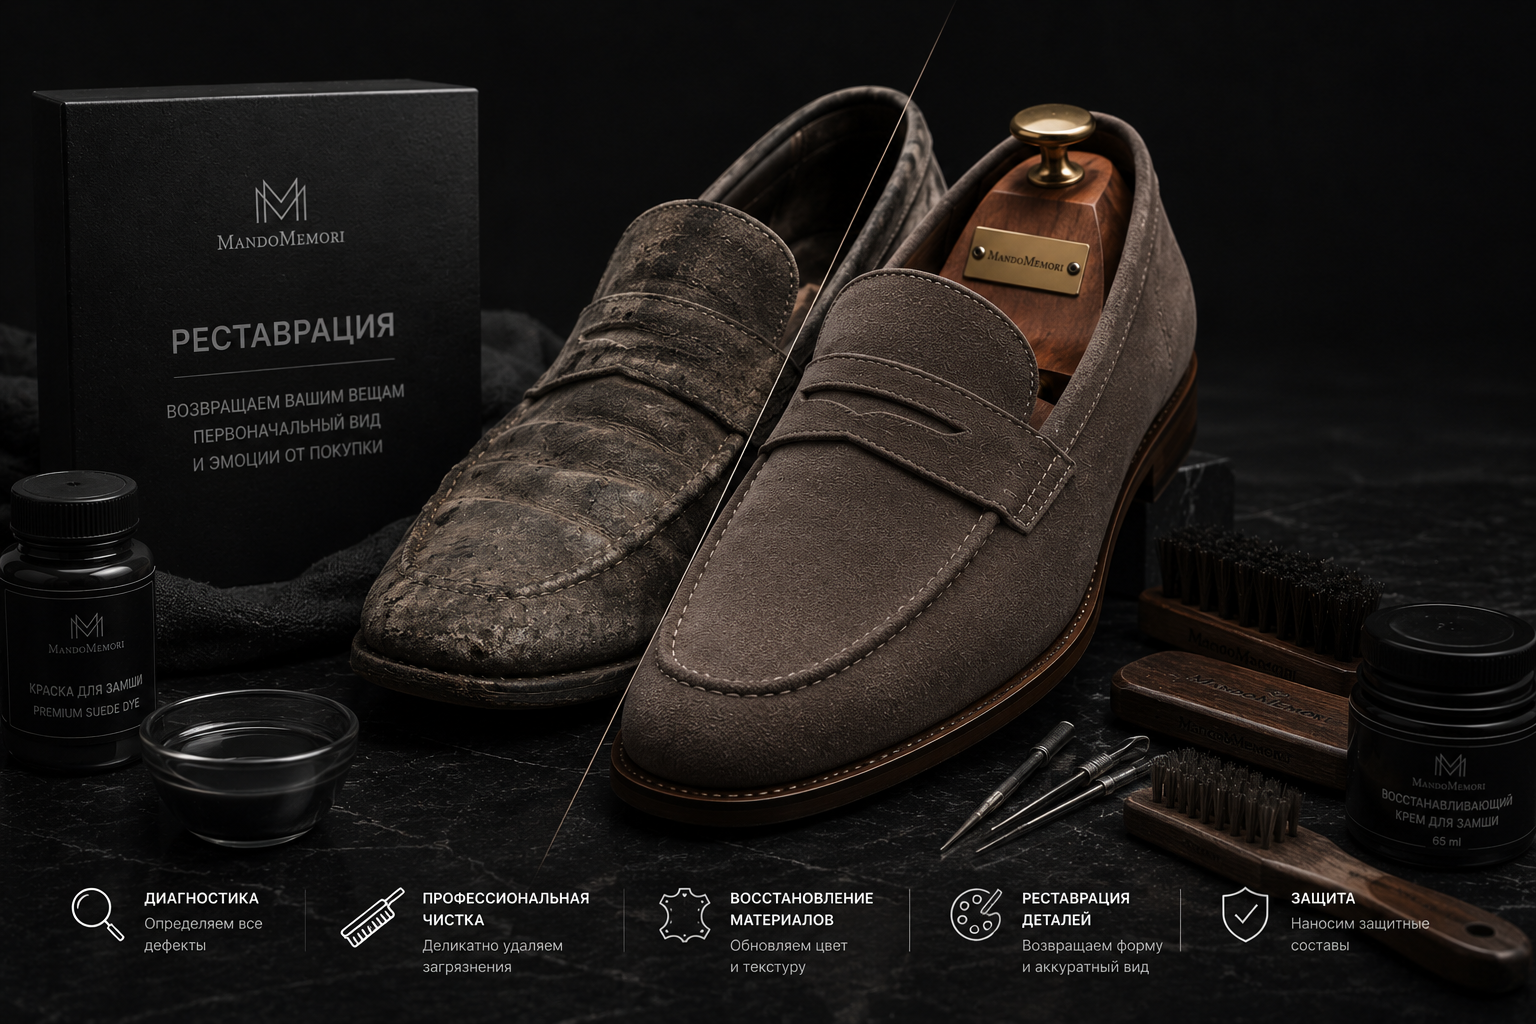
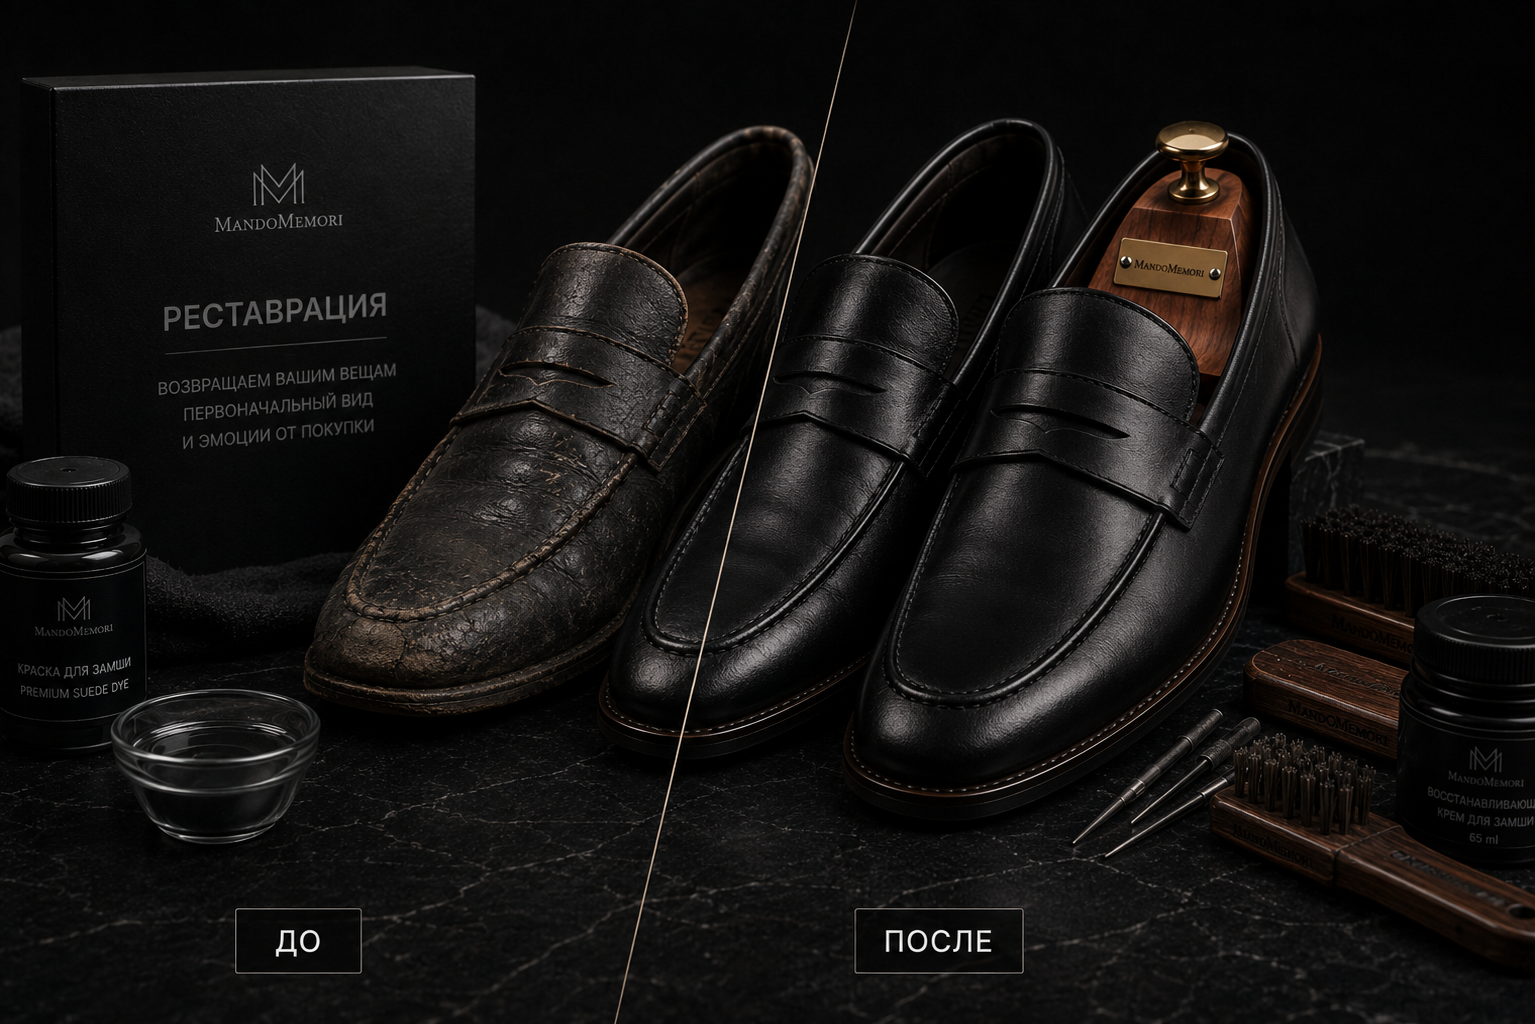
update

diff --git a/setting/Route/Function/Functions.php b/setting/Route/Function/Functions.php
@@ -29,7 +29,7 @@ class Functions
         return [
             1  => ['slug' => 'cleaning', 'title' => 'Чистка', 'price' => 5990, 'price_formatted' => '5 990', 'img' => 'services/чистка.png', 'bg' => '#1C1512', 'dark' => true, 'desc' => 'Комплексная чистка обуви снаружи и внутри, восстановление формы, устранение потёртостей, цвета и запаха, водоотталкивающая пропитка. ' . $brands, 'duration' => '1-6 дней'],
             2  => ['slug' => 'prevention', 'title' => 'Профилактика', 'price' => 3490, 'price_formatted' => '3 490', 'img' => 'services/профилактика.png', 'bg' => '#1C1512', 'dark' => true, 'desc' => 'Установка фактурной или гелевой профилактики на подошву для защиты от износа. ' . $brands, 'duration' => '1-2 дней'],
-            3  => ['slug' => 'whitening', 'title' => 'Отбеливание подошвы', 'price' => 10990, 'price_formatted' => '10 990', 'img' => 'services/Отбеливание подошвы.png', 'bg' => '#1C1512', 'dark' => true, 'desc' => 'Профессиональное отбеливание подошвы с удалением желтизны и возвращением белоснежного вида. ' . $brands, 'duration' => '3-7 дней'],
+            3  => ['slug' => 'whitening', 'title' => 'Отбеливание подошвы Loro Piana', 'price' => 10990, 'price_formatted' => '10 990', 'img' => 'services/Отбеливание подошвы.png', 'bg' => '#1C1512', 'dark' => true, 'desc' => 'Профессиональное отбеливание подошвы на обуви Loro Piana с удалением желтизны и возвращением белоснежного вида. ' . $brands, 'duration' => '3-7 дней'],
             4  => ['slug' => 'replacement', 'title' => 'Замена подошвы Loro Piana', 'price' => 18990, 'price_formatted' => '18 990', 'img' => 'services/Замена подошвы.png', 'bg' => '#1C1512', 'dark' => true, 'desc' => 'Профессиональная замена подошвы на обуви Loro Piana с восстановлением оригинального вида и комфорта. ' . $brands, 'duration' => '3-7 дней'],
             5  => ['slug' => 'restoration', 'title' => 'Реставрация', 'price' => 6490, 'price_formatted' => '6 490', 'img' => 'services/реставрация.png', 'bg' => '#1C1512', 'dark' => true, 'desc' => 'Восстановление от царапин, потёртостей, заломов, швов, молний, фурнитуры и цвета. ' . $brands, 'duration' => '3-7 дней'],
             6  => ['slug' => 'heel-taps-rubber', 'title' => 'Набойки (резина)', 'price' => 1990, 'price_formatted' => '1 990', 'img' => 'services/Набойки.png', 'bg' => '#1C1512', 'dark' => true, 'desc' => 'Установка резиновых набоек на мужскую обувь. ' . $brands, 'duration' => '1 дней'],